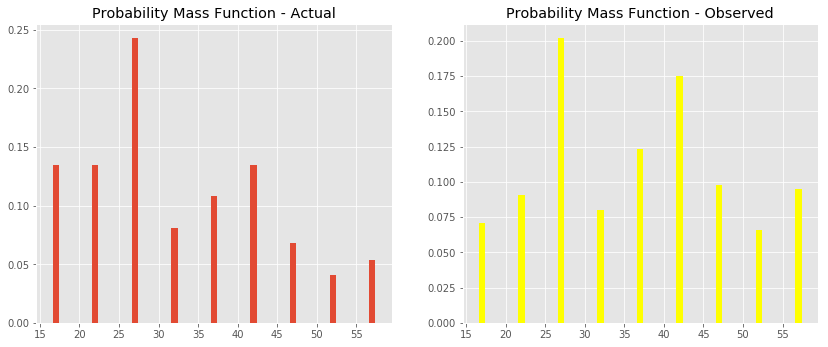
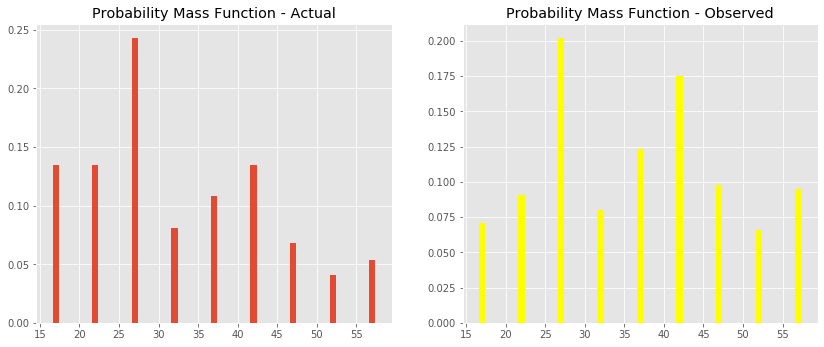
update readme

diff --git a/README.md b/README.md
@@ -54,8 +54,6 @@ Following the approach seen in the previous lesson, calculate the PMF by normali
 
 
 ```python
-import numpy as np 
-
 # Determine total number of classes
 sum_class = sum(size_and_count.values())
 
@@ -74,10 +72,12 @@ sizes, pmf
 
 
 
-As an additional check, these probability values must sum to 1. Let's check for that:
+As an additional check, these probability values must sum to 1. Let's check for that. Run the following cell: 
 
 
 ```python
+# The output should be 1
+import numpy as np 
 np.array(pmf).sum()
 ```
 
@@ -117,11 +117,12 @@ Recall, we expected the average class size to be 32.5. Indeed, the calculation a
 ```python
 import matplotlib.pyplot as plt
 %matplotlib inline
-
 plt.style.use('ggplot')
 plt.figure(figsize=(8,5))
+
+# Plot the pmf 
 plt.bar(size_and_count.keys(), pmf);
-plt.title ("The Probability Mass Function");
+plt.title("The Probability Mass Function");
 ```
 
 
@@ -202,7 +203,7 @@ Here we see it, the average or expected value of biased results comes out much h
 
 ```python
 # Plot pmfs side by side
-new_figure = plt.figure(figsize=(14,5.5))
+new_figure = plt.figure(figsize=(14, 5.5))
 
 ax = new_figure.add_subplot(121)
 ax2 = new_figure.add_subplot(122)
@@ -229,7 +230,7 @@ For an even more direct comparison, plot these PMFs on top of each other and cha
 
 ```python
 # Plot pmfs overlapping
-plt.figure(figsize=(8,5))
+plt.figure(figsize=(8, 5))
 plt.bar(size_and_count.keys(), pmf, label= 'Actual', alpha = 0.7 );
 plt.bar(size_and_count.keys(), pmf2, color= "yellow", alpha = 0.7, label= 'Observed');
 plt.title ("Probability Mass Function - Class size paradox");
